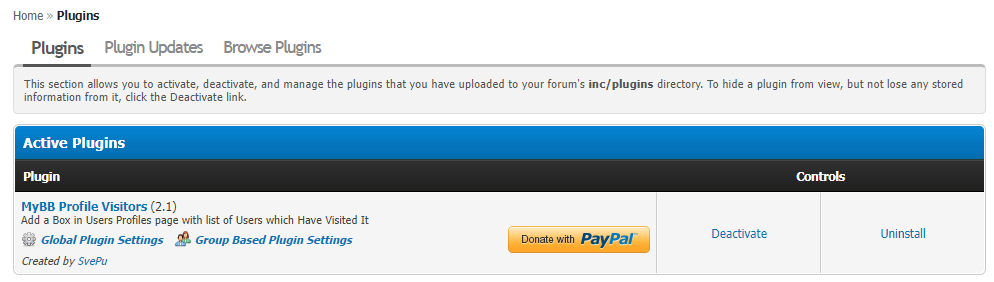
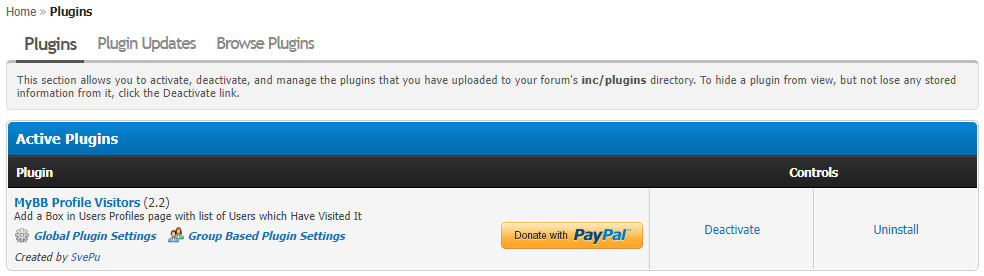
update version number to 2.2

diff --git a/UPLOAD/inc/plugins/profilevisitors.php b/UPLOAD/inc/plugins/profilevisitors.php
@@ -3,7 +3,7 @@
 /**
  *  Main plugin file for Profile Visitors Plugin for MyBB 1.8
  *  Copyright © 2014 - 2023 SvePu
- *  Last change: 2022-01-05 - v 2.1
+ *  Last change: 2022-01-19 - v 2.2
  *  Licensed under the GNU GPL, version 3
  */
 
@@ -67,7 +67,7 @@ function profilevisitors_info()
         'website'       => 'https://github.com/SvePu/MyBB-Profile-Visitors',
         'author'        => 'SvePu',
         'authorsite'    => 'https://github.com/SvePu',
-        'version'       => '2.1',
+        'version'       => '2.2',
         'compatibility' => '18*',
         'codename'      => 'profilevisitors',
         'minphpversion' => '7.0'
